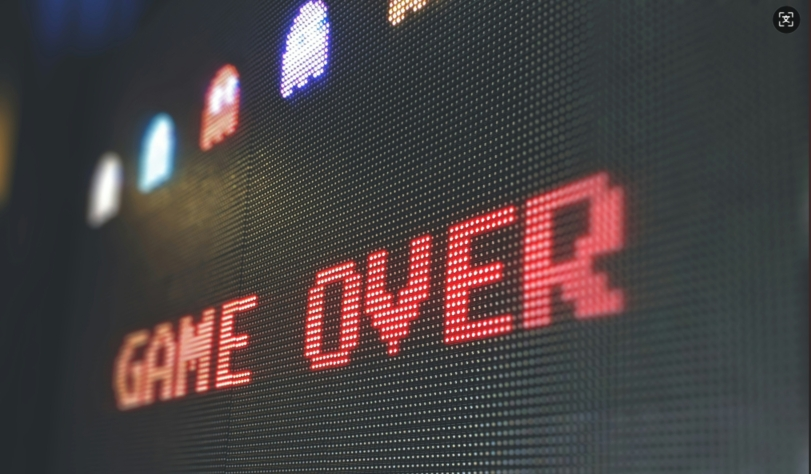
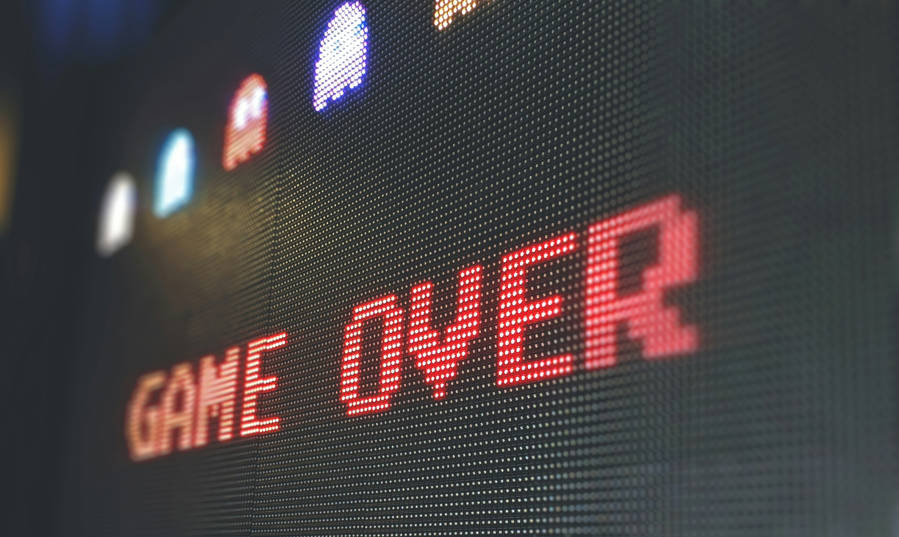
替换图片和新增一个discord频道链接

diff --git a/src/components/layout/Footer.tsx b/src/components/layout/Footer.tsx
@@ -58,6 +58,21 @@ export default function Footer({ locale, initialMessages }: FooterProps) {
                         </span>
                         <div className="flex flex-col gap-4">
                             <a
+                                href="https://discord.gg/vqnmFXrSEe"
+                                target="_blank"
+                                rel="noopener noreferrer"
+                                className="text-sm text-gray-400 hover:text-purple-400 transition-colors flex items-center gap-2"
+                            >
+                                <svg
+                                    className="w-5 h-5"
+                                    fill="currentColor"
+                                    viewBox="0 0 24 24"
+                                >
+                                    <path d="M20.317 4.37a19.791 19.791 0 0 0-4.885-1.515a.074.074 0 0 0-.079.037c-.21.375-.444.864-.608 1.25a18.27 18.27 0 0 0-5.487 0a12.64 12.64 0 0 0-.617-1.25a.077.077 0 0 0-.079-.037A19.736 19.736 0 0 0 3.677 4.37a.07.07 0 0 0-.032.027C.533 9.046-.32 13.58.099 18.057a.082.082 0 0 0 .031.057a19.9 19.9 0 0 0 5.993 3.03a.078.078 0 0 0 .084-.028a14.09 14.09 0 0 0 1.226-1.994a.076.076 0 0 0-.041-.106a13.107 13.107 0 0 1-1.872-.892a.077.077 0 0 1-.008-.128a10.2 10.2 0 0 0 .372-.292a.074.074 0 0 1 .077-.01c3.928 1.793 8.18 1.793 12.062 0a.074.074 0 0 1 .078.01c.12.098.246.198.373.292a.077.077 0 0 1-.006.127a12.299 12.299 0 0 1-1.873.892a.077.077 0 0 0-.041.107c.36.698.772 1.362 1.225 1.993a.076.076 0 0 0 .084.028a19.839 19.839 0 0 0 6.002-3.03a.077.077 0 0 0 .032-.054c.5-5.177-.838-9.674-3.549-13.66a.061.061 0 0 0-.031-.03zM8.02 15.33c-1.183 0-2.157-1.085-2.157-2.419c0-1.333.956-2.419 2.157-2.419c1.21 0 2.176 1.096 2.157 2.42c0 1.333-.956 2.418-2.157 2.418zm7.975 0c-1.183 0-2.157-1.085-2.157-2.419c0-1.333.955-2.419 2.157-2.419c1.21 0 2.176 1.096 2.157 2.42c0 1.333-.946 2.418-2.157 2.418z" />
+                                </svg>
+                                Discord
+                            </a>
+                            <a
                                 href="mailto:support@retro-games.org"
                                 className="text-sm text-gray-400 hover:text-purple-400 transition-colors"
                             >
